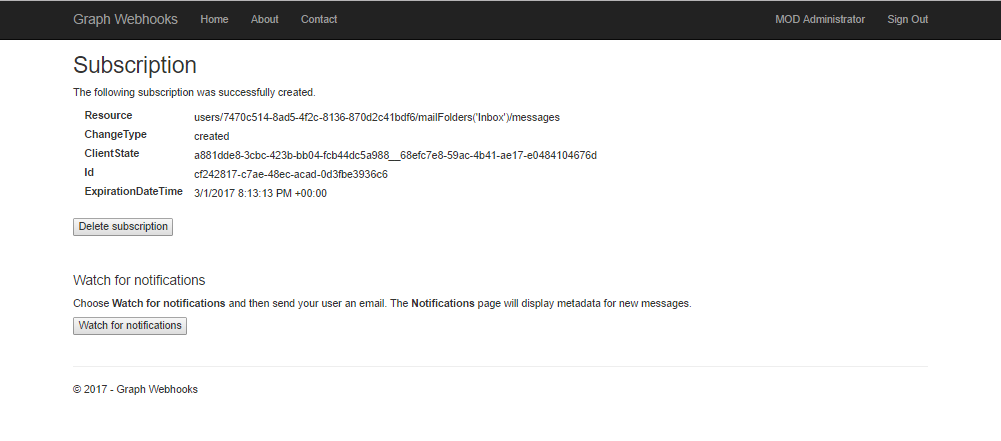
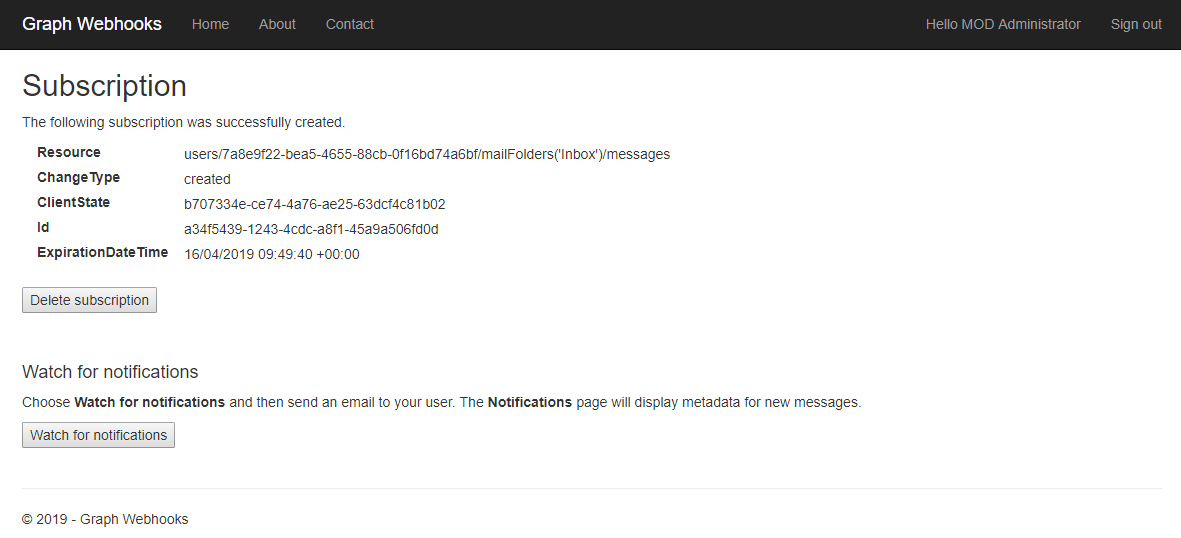
Update to README and textual info. on Home page

diff --git a/README.md b/README.md
@@ -2,13 +2,11 @@
 
 Subscribe for [Microsoft Graph webhooks](https://developer.microsoft.com/en-us/graph/docs/api-reference/v1.0/resources/webhooks) to be notified when your user's data changes, so you don't have to poll for changes.
 
-This sample ASP.NET Core web application shows how to subscribe for webhooks using application (app-only) permissions. It uses OpenID Connect for sign in / sign out using the Microsoft identity platform for developers, [Microsoft Authentication Library for .NET](https://github.com/AzureAD/microsoft-authentication-library-for-dotnet) (MSAL.NET) to obtain an access token using the [Implicit grant flow](https://docs.microsoft.com/azure/active-directory/develop/v2-oauth2-implicit-grant-flow), and the [Microsoft Graph Client Library for .NET](https://github.com/microsoftgraph/msgraph-sdk-dotnet) (SDK) to call Microsoft Graph on behalf of a user that has successfully signed in to the web app. These complexities have been encapsulated into the `Microsoft.Identity.Web` reusable library project. 
+This sample ASP.NET Core web application shows how to subscribe for webhooks using delegated permissions. It uses OpenID Connect for sign in / sign out using the Microsoft identity platform for developers, [Microsoft Authentication Library for .NET](https://github.com/AzureAD/microsoft-authentication-library-for-dotnet) (MSAL.NET) to obtain an access token using the [auth code flow](https://docs.microsoft.com/en-us/azure/active-directory/develop/v2-oauth2-auth-code-flow), and the [Microsoft Graph Client Library for .NET](https://github.com/microsoftgraph/msgraph-sdk-dotnet) (SDK) to call Microsoft Graph on behalf of a user that has successfully signed in to the web app. These complexities have been encapsulated into the `Microsoft.Identity.Web` reusable library project. 
 
 >See the list of [application permissions](https://docs.microsoft.com/en-us/graph/api/subscription-post-subscriptions?view=graph-rest-1.0) permitted for each supported resource in Microsoft Graph.
 
 The sample app redirects to the Azure AD *adminconsent* endpoint so a tenant administrator can grant application permissions directly to the app. After the admin consents, users in the tenant can create a subscription and watch for notifications. 
-
-**Note:** Although individual users initiate the subscription process for their own user account, the access token that's used to create the subscription carries an application-level role, not a user-level scope.
 
 The following are common tasks that an application performs with webhooks subscriptions:
 
@@ -24,7 +22,7 @@ The screenshot below shows the app's start page.
   
 ![Microsoft Graph Webhook Sample for ASP.NET Core screenshot](readme-images/Page1.PNG)
 
-After the app creates a subscription for the signed-in user (using an app-only token), Microsoft Graph sends a notification to the registered endpoint when events happen in the user's subscribed resource. The app then reacts to the event.
+After the app creates a subscription for the signed-in user, Microsoft Graph sends a notification to the registered endpoint when events happen in the user's subscribed resource. The app then reacts to the event.
 
 This sample app subscribes to the `users/{user-id}/mailFolders('Inbox')/messages` resource for `created` changes. When notified that subscribed users receive a mail message, the app then updates a page with information about the message. The page displays only messages belonging to the signed-in user.
 
@@ -72,8 +70,6 @@ This app uses the Azure AD endpoint, so you'll register it in the [Azure Portal]
 5. Choose your new application from the list of registered applications.
 
 6. Copy and store the Application ID. This value is shown in the **Essentials** pane or in **Settings** > **Properties**.
-
-7. Optional. To enable multi-tenanted support for the app, open **Settings** > **Properties** and set **Multi-tenanted** to **Yes**.
 
 8. Open **Settings** > **Reply URLs** and add the following redirect URI:
 
@@ -207,20 +203,20 @@ The following files contain code that's related to connecting to Microsoft Graph
 `dotnet user-secrets list`
 - [`Startup.cs`](https://github.com/microsoftgraph/aspnetcore-apponlytoken-webhooks-sample/blob/master/src/GraphWebhooks-Core/Startup.cs) Configures the app and the services it uses, including authentication.
 
-**Controllers**  
+### Controllers  
 - [`AccountController.cs`](https://github.com/microsoftgraph/aspnetcore-apponlytoken-webhooks-sample/blob/master/src/GraphWebhooks-Core/Controllers/AccountController.cs) Handles admin consent.  
 - [`NotificationController.cs`](https://github.com/microsoftgraph/aspnetcore-apponlytoken-webhooks-sample/blob/master/src/GraphWebhooks-Core/Controllers/NotificationController.cs) Receives notifications.  
 - [`SubscriptionContoller.cs`](https://github.com/microsoftgraph/aspnetcore-apponlytoken-webhooks-sample/blob/master/src/GraphWebhooks-Core/Controllers/SubscriptionController.cs) Creates and deletes subscriptions.
 
-**Models**  
-- [`Notification.cs`](https://github.com/microsoftgraph/aspnetcore-apponlytoken-webhooks-sample/blob/master/src/GraphWebhooks-Core/Models/Notification.cs) Represents a change notification. 
+### Models
+- [`Notification.cs`](https://github.com/microsoftgraph/aspnetcore-apponlytoken-webhooks-sample/blob/master/src/GraphWebhooks-Core/Models/Notification.cs) Represents a change notification.
 - [`MessageViewModel.cs`](https://github.com/microsoftgraph/aspnetcore-apponlytoken-webhooks-sample/blob/master/src/GraphWebhooks-Core/Models/MessageViewModel.cs) Defines the **MessageViewModel** that represents the data displayed in the Notification view.
 
-**Helpers**  
+### Helpers
 - [`GraphServiceClientFactory.cs`](https://github.com/microsoftgraph/aspnetcore-apponlytoken-webhooks-sample/blob/master/src/GraphWebhooks-Core/Helpers/GraphServiceClientFactory.cs) Initiates the SDK client used to interact with Microsoft Graph.
 - [`SubscriptionStore.cs`](https://github.com/microsoftgraph/aspnetcore-apponlytoken-webhooks-sample/blob/master/src/GraphWebhooks-Core/Helpers/SubscriptionStore.cs) Access layer for stored subscription information. The sample temporarily stores the info in HttpRuntime.Cache. Production apps will typically use some method of persistent storage.
 
-**Microsoft.Identity.Web**
+### Microsoft.Identity.Web
 - Helper library containing a set of reusable classes that are useful in helping with the below:
     
     - Authenticating and signing-in users with any Work, School
